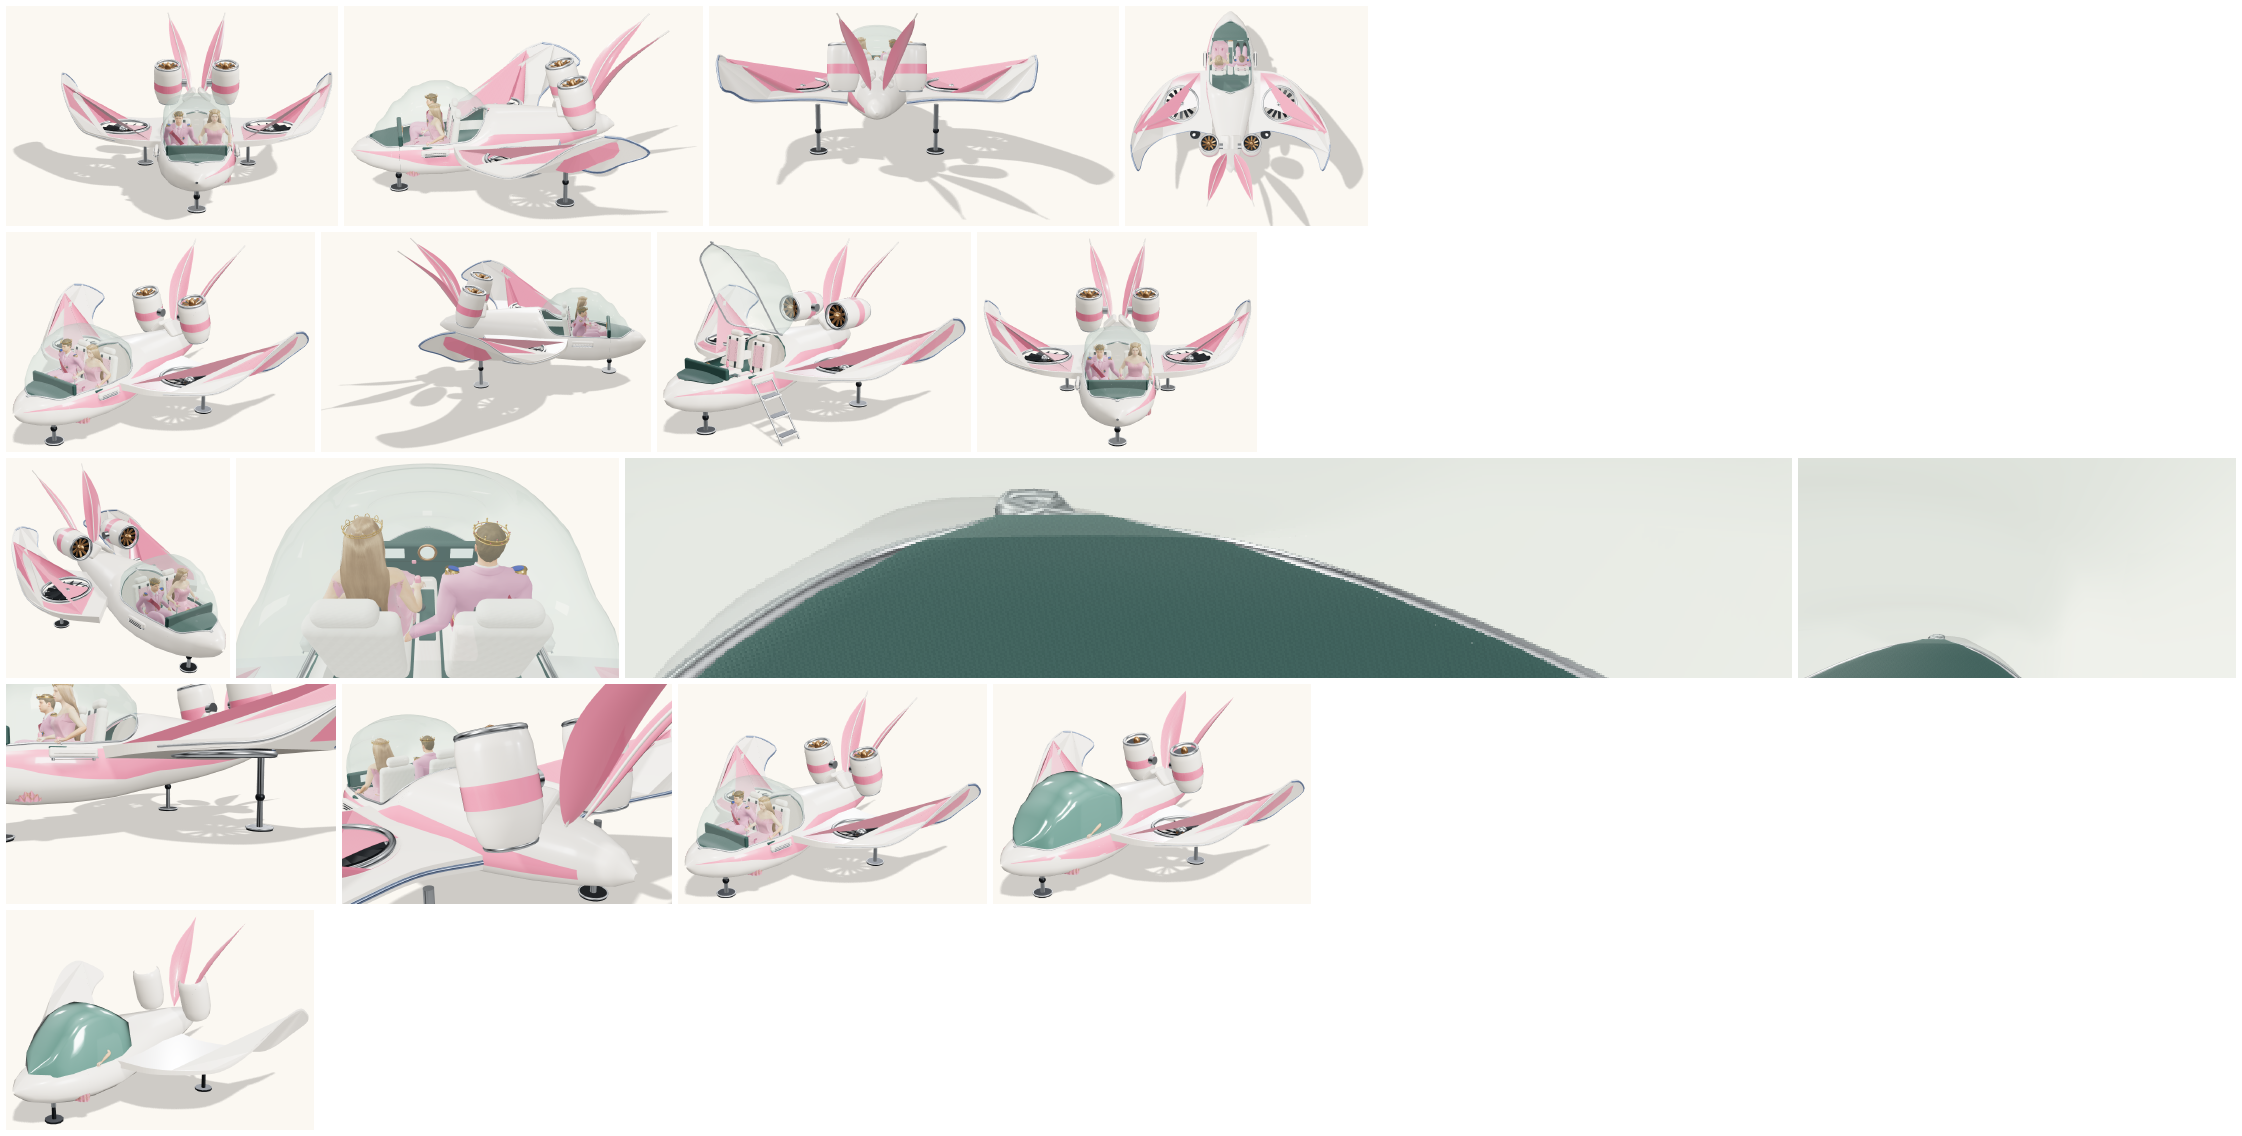
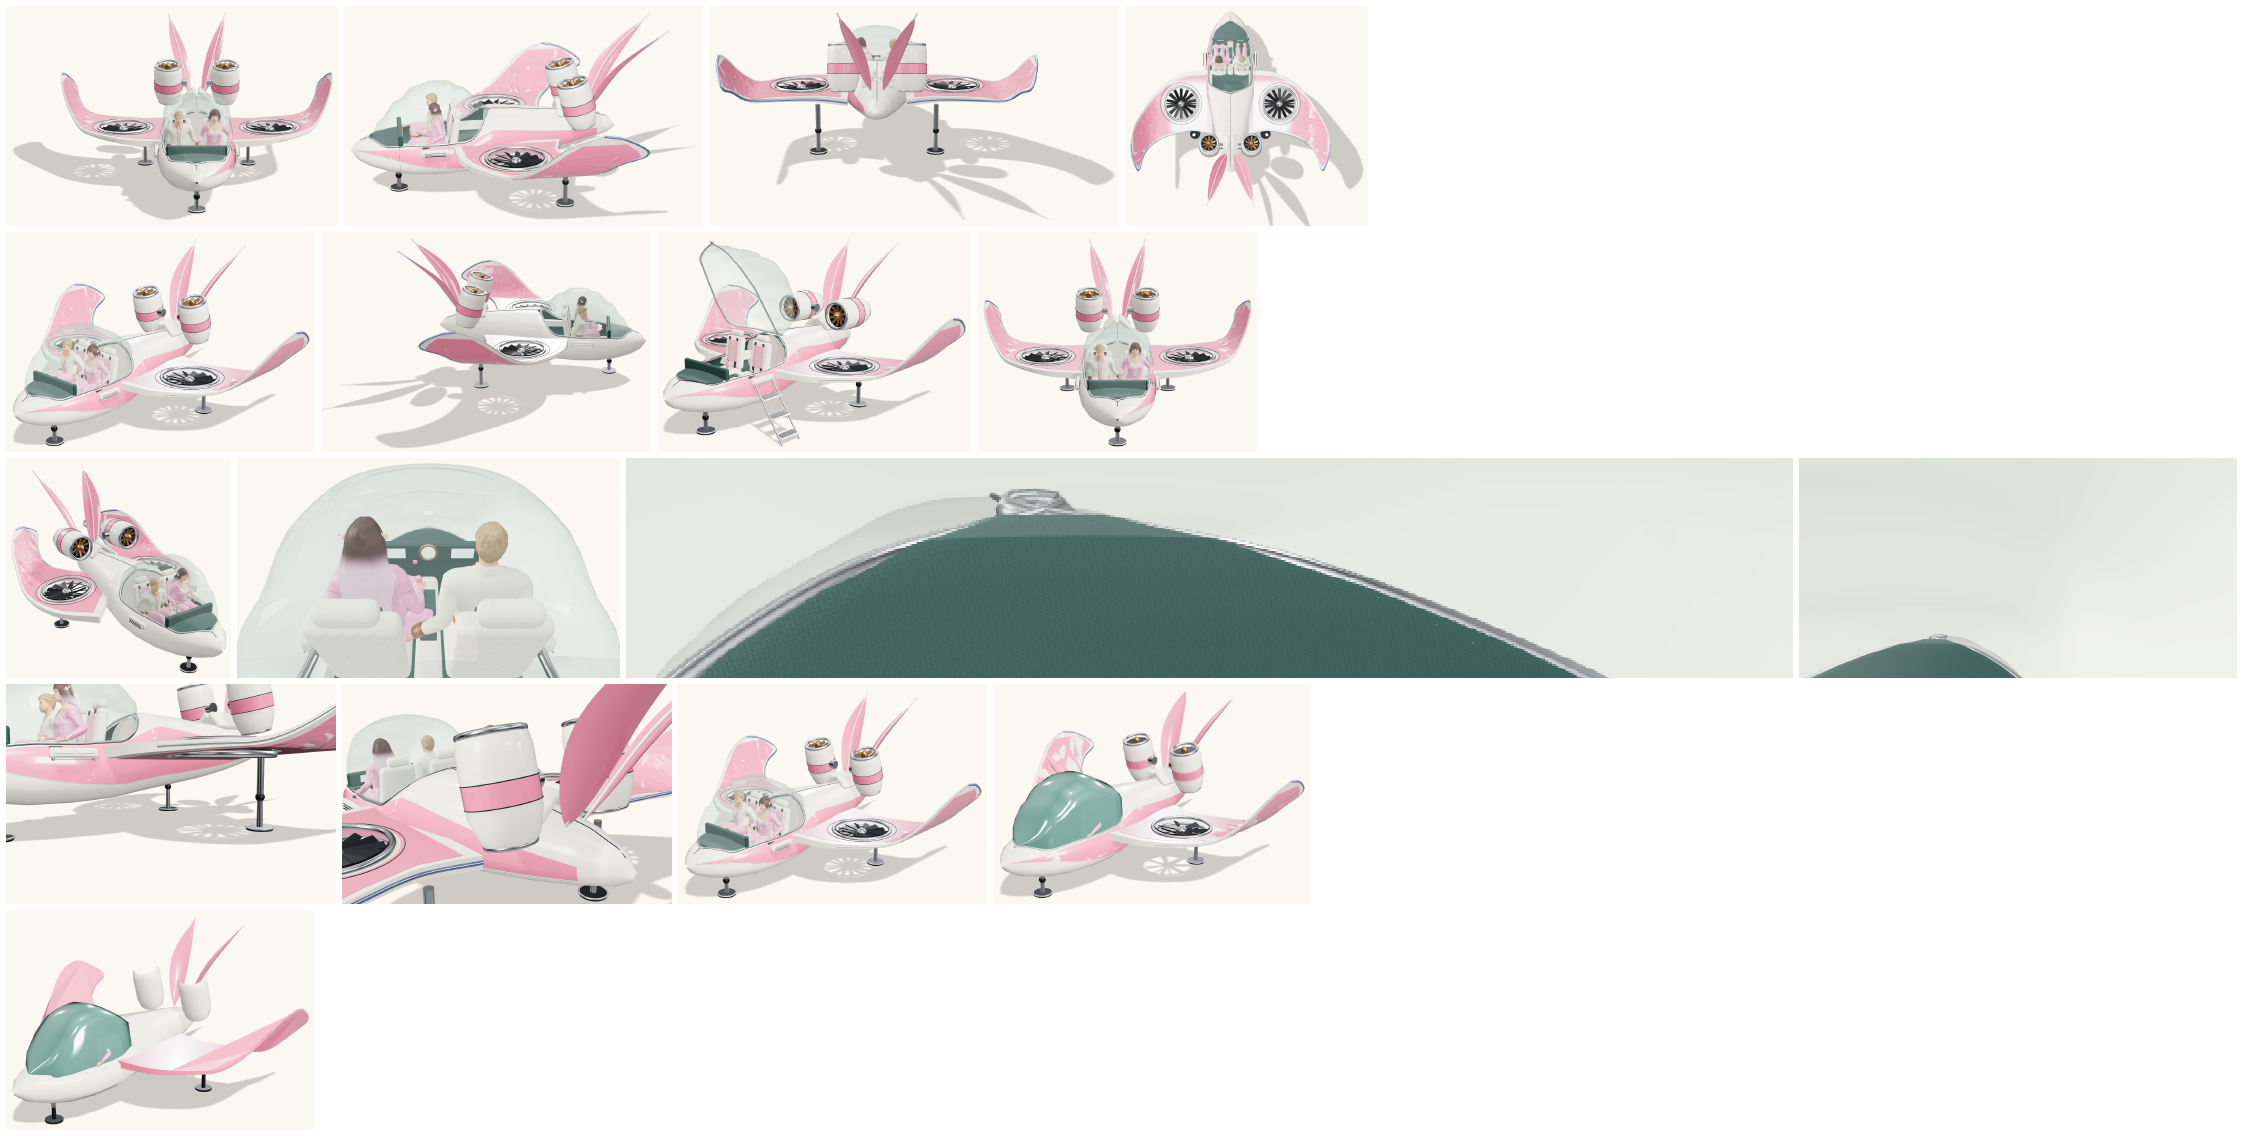
nov03no01

diff --git a/preview/src/ribbonwing.js b/preview/src/ribbonwing.js
@@ -19,6 +19,13 @@ import { createRibbonwingTrails } from './ribbonwing-trails.js';
 
 const TAU = Math.PI * 2;
 
+// D3 detail pass. Shut lines sit 3 mm proud of the authored loft: enough to read
+// as a panel gap at cockpit distance, inside the 20 mm envelope so no silhouette
+// view moves. The canopy seam stands 45 mrad outboard of the glass opening.
+const SEAM = Object.freeze({ radius: .004, lift: .003, canopyOffset: .045 });
+const inflated = (section, lift = SEAM.lift) => ({ ...section, halfWidth: section.halfWidth + lift, bottom: section.bottom - lift, top: section.top + lift });
+const bodyPoint = (x, angle, lift) => { const [y, z] = sectionPoint(inflated(bodyAt(x), lift), angle);return [x, y, z]; };
+
 // A quilted upholstery normal map, generated (no image asset): diamond tufts
 // on a 64 px tile. Linear data, so no colour space.
 function quiltNormalMap() {
@@ -39,10 +46,10 @@ export function createRibbonwing({ rubberName = 'Road tyre rubber' } = {}) {
   const physical = (name, color, options = {}) => { const m = own(new THREE.MeshPhysicalMaterial({ color, roughness: .4, ...options }));m.name = name;return m; };
   const quilt = own(quiltNormalMap());
   const M = {
-    lacquer: physical('Ribbonwing pink lacquer', P.lacquer, { roughness: .3, clearcoat: 1, clearcoatRoughness: .06 }),
-    ivory: physical('Ribbonwing ivory composite', P.ivory, { roughness: .36, clearcoat: .55, clearcoatRoughness: .16 }),
-    chrome: physical('Ribbonwing chrome', P.chrome, { metalness: 1, roughness: .13 }),
-    edge: physical('Ribbonwing blue chrome edge', P.edgeBlue, { metalness: 1, roughness: .2 }),
+    lacquer: physical('Ribbonwing pink lacquer', P.lacquer, { roughness: .3, clearcoat: 1, clearcoatRoughness: .06, envMapIntensity: 1.35 }),
+    ivory: physical('Ribbonwing ivory composite', P.ivory, { roughness: .36, clearcoat: .55, clearcoatRoughness: .16, envMapIntensity: 1.1 }),
+    chrome: physical('Ribbonwing chrome', P.chrome, { metalness: 1, roughness: .13, envMapIntensity: 1.5 }),
+    edge: physical('Ribbonwing blue chrome edge', P.edgeBlue, { metalness: 1, roughness: .2, envMapIntensity: 1.4 }),
     glass: physical('Ribbonwing mint canopy glass', P.mint, { transparent: true, opacity: .3, roughness: .05, metalness: .1, depthWrite: false }),
     glassFar: physical('Ribbonwing tinted canopy (distance)', '#6E9C92', { roughness: .12, metalness: .35, clearcoat: 1 }),
     seat: physical('Ribbonwing ivory upholstery', P.upholsteryIvory, { roughness: .8, sheen: .4, sheenColor: '#fbf4ea', normalMap: quilt, normalScale: new THREE.Vector2(.35, .35) }),
@@ -51,6 +58,7 @@ export function createRibbonwing({ rubberName = 'Road tyre rubber' } = {}) {
     cockpitIvory: physical('Ribbonwing ivory bulkhead', P.upholsteryIvory, { roughness: .8, side: THREE.DoubleSide }),
     cockpit: physical('Ribbonwing cockpit teal', P.cockpit, { roughness: .62, side: THREE.DoubleSide }),
     mechanical: physical('Ribbonwing dark mechanical', P.mechanical, { metalness: .6, roughness: .45 }),
+    seam: physical('Ribbonwing panel seam', P.mechanical, { metalness: .1, roughness: .72 }),
     bronze: physical('Ribbonwing bronze', P.bronze, { metalness: .9, roughness: .3 }),
     rubber: physical(rubberName, '#151719', { roughness: .88 }),
     gauge: physical('Ribbonwing instrument glow', '#d8f3ea', { emissive: '#bfeee0', emissiveIntensity: .35, roughness: .3 }),
@@ -82,10 +90,21 @@ export function createRibbonwing({ rubberName = 'Road tyre rubber' } = {}) {
     const x = xFrom(u), a = open ? openingHalfAngle(x) : 0, angle = Math.PI / 2 + a + (TAU - 2 * a) * v, [y, z] = sectionPoint(bodyAt(x), angle);return [x, y, z];
   }, M.ivory, parent);
   // Pink lacquer flank swoosh (both sides), 4 mm proud of the ivory.
-  const swoosh = (parent, nu, nv, side) => surface(nu, nv, (u, v) => {
-    const x = cosine(-2.86, 1.62, u), s = (x + 2.86) / 4.48, centre = .34 - .62 * s, half = .02 + .5 * Math.sin(Math.min(1, s * 1.7) * Math.PI / 2) * (1 - .45 * Math.max(0, s - .6) / .4);
-    const angle = centre + half * (v * 2 - 1), section = bodyAt(x), [y, z] = sectionPoint({ ...section, halfWidth: section.halfWidth + .004, bottom: section.bottom - .004, top: section.top + .004 }, side > 0 ? angle : Math.PI - angle);return [x, y, z];
-  }, M.lacquer, parent);
+  const swooshSpan = x => {
+    const s = (x + 2.86) / 4.48, centre = .34 - .62 * s;
+    return { centre, half: .02 + .5 * Math.sin(Math.min(1, s * 1.7) * Math.PI / 2) * (1 - .45 * Math.max(0, s - .6) / .4) };
+  };
+  const swoosh = (parent, nu, nv, side, detail) => {
+    surface(nu, nv, (u, v) => {
+      const x = cosine(-2.86, 1.62, u), { centre, half } = swooshSpan(x), angle = centre + half * (v * 2 - 1), section = bodyAt(x), [y, z] = sectionPoint({ ...section, halfWidth: section.halfWidth + .004, bottom: section.bottom - .004, top: section.top + .004 }, side > 0 ? angle : Math.PI - angle);return [x, y, z];
+    }, M.lacquer, parent);
+    if (detail === 'near') {
+      // Bright rocker line along the panel's lower edge, as on the reference car.
+      const trim = [];
+      for (let i = 0; i <= 24; i++) { const x = cosine(-2.86, 1.62, i / 24), { centre, half } = swooshSpan(x), [y, z] = sectionPoint(inflated(bodyAt(x), .005), side > 0 ? centre - half : Math.PI - centre + half);trim.push([x, y, z]); }
+      tube(trim, .004, M.chrome, parent, 5);
+    }
+  };
   const canopySample = (u, v) => {
     const x = COCKPIT_OPENING.from + (COCKPIT_OPENING.to - COCKPIT_OPENING.from) * u, edge = openingEdge(x) ?? [sectionPoint(bodyAt(x), Math.PI / 2)[0], 0];
     const apex = Math.max(edge[0], profileAt(CANOPY_PROFILE, u)), t = v * Math.PI, sin = Math.sin(t);
@@ -193,6 +212,16 @@ export function createRibbonwing({ rubberName = 'Road tyre rubber' } = {}) {
     }
     const hub = mesh(new THREE.SphereGeometry(.1, 20, 12, 0, TAU, 0, Math.PI / 2), M.chrome, rotor);hub.scale.y = .8;
     cylinder(.1, .1, .05, 20, M.bronze, rotor, [0, -.025, 0]);
+    if (detail === 'near') {
+      // Shut line around the fan's pink panel, following the wing's chord taper.
+      const r = FANS.shroud + .07, ring = [];
+      for (let i = 0; i < 32; i++) {
+        const a = i / 32 * TAU, wz = side * (fz + r * Math.sin(a)), span = Math.abs(wz);
+        const taper = 1 - .75 * Math.max(0, Math.min(1, (span - WING.planformRoot) / (2.92 - WING.planformRoot)));
+        ring.push([fx + r * Math.cos(a) - px, wingHeightAt(span) - py + WING.thickness / 2 * taper + .012, wz - side * pz]);
+      }
+      tube(ring, .0035, M.seam, pivot, 5, true);
+    }
   };
 
   const buildThruster = (parent, side, detail) => {
@@ -210,6 +239,7 @@ export function createRibbonwing({ rubberName = 'Road tyre rubber' } = {}) {
     lathe([[.24, -L / 2], [.28, -L / 2 + .04], [R, -L / 2 + .14], [R, -.08], [R * .98, .2], [R * .82, L / 2 - .06], [R * .7, L / 2]], M.ivory);
     if (detail === 'far') return;
     lathe([[R + .003, -.06], [R + .003, .12]], M.petal);
+    if (detail === 'near') for (const at of [-.06, .12]) torus(R + .004, .004, M.seam, gimbal, [offset + at, 0, 0], [0, Math.PI / 2, 0], 32);
     torus(.255, .03, M.chrome, gimbal, [offset - L / 2 + .015, 0, 0], [0, Math.PI / 2, 0], segments);
     torus(R * .7 - .01, .022, M.chrome, gimbal, [offset + L / 2, 0, 0], [0, Math.PI / 2, 0], segments);
     // Intake fan face and the nozzle's dark throat with its bounded glow.
@@ -321,11 +351,24 @@ export function createRibbonwing({ rubberName = 'Road tyre rubber' } = {}) {
     buildSeat(parent, SEATS.pilot, 1);buildSeat(parent, SEATS.passenger, -1);
   };
 
+  // Near-only shut lines on the authored body: two centreline seams and the
+  // gasket line around the canopy opening. They sit on the unmodified loft, so
+  // the silhouette floors cannot move.
+  const buildDetail = level => {
+    const spine = (from, to, steps) => tube(Array.from({ length: steps + 1 }, (_, i) => bodyPoint(from + (to - from) * i / steps, Math.PI / 2)), SEAM.radius * .9, M.seam, level, 5);
+    spine(-2.78, -2.63, 8);
+    spine(-.40, 1.90, 28);
+    const { from, to } = COCKPIT_OPENING, surround = [];
+    for (let i = 0; i <= 24; i++) { const x = from + (to - from) * i / 24; surround.push(bodyPoint(x, Math.PI / 2 + openingHalfAngle(x) + SEAM.canopyOffset)); }
+    for (let i = 24; i >= 0; i--) { const x = from + (to - from) * i / 24; surround.push(bodyPoint(x, Math.PI / 2 - openingHalfAngle(x) - SEAM.canopyOffset)); }
+    tube(surround, SEAM.radius * .9, M.seam, level, 5, true);
+  };
+
   const buildLevel = detail => {
     const level = new THREE.Group();level.name = `Ribbonwing ${detail}`;batchGroups.push(level);
     const nu = { near: 72, medium: 32, far: 14 }[detail], nv = { near: 48, medium: 22, far: 10 }[detail];
     body(level, nu, nv, detail === 'near');
-    if (detail !== 'far') for (const side of [1, -1]) swoosh(level, Math.round(nu * .6), 6, side);
+    if (detail !== 'far') for (const side of [1, -1]) swoosh(level, Math.round(nu * .6), 6, side, detail);
     // Nose emblem: a small pink inverted triangle.
     if (detail !== 'far') { const tri = new THREE.Shape([new THREE.Vector2(-.05, .04), new THREE.Vector2(.05, .04), new THREE.Vector2(0, -.045)]), g = new THREE.ShapeGeometry(tri);g.rotateY(-Math.PI / 2);const m = mesh(g, M.lacquer, level);m.position.set(-2.835, .86, 0);m.rotation.z = -.5; }
     // Canopy (rear-hinged) with its chrome rim; distance levels get an opaque tint.
@@ -345,7 +388,7 @@ export function createRibbonwing({ rubberName = 'Road tyre rubber' } = {}) {
     }
     for (const side of [1, -1]) { buildWing(level, side, detail);buildThruster(level, side, detail);buildPetal(level, side, detail); }
     for (let i = 0; i < 3; i++) buildFoot(level, i, detail);
-    if (detail === 'near') { buildCockpit(level);for (const side of [1, -1]) buildSteps(level, side); }
+    if (detail === 'near') { buildCockpit(level);buildDetail(level);for (const side of [1, -1]) buildSteps(level, side); }
     // Gear bay outlines under the body and wings (dark recesses).
     if (detail === 'near') for (const [x, , z] of FEET.hinges) { const bay = mesh(new THREE.CircleGeometry(.16, 20), M.mechanical, level);bay.scale.set(1.8, 1, 1);bay.rotation.x = Math.PI / 2;bay.position.set(x, (z ? wingHeightAt(z) - WING.thickness / 2 : bodyAt(x).bottom) - .004, z); }
     return level;

diff --git a/preview/tests/ribbonwing.test.js b/preview/tests/ribbonwing.test.js
@@ -120,6 +120,21 @@ test('the Ribbonwing model exposes named attachments, three LOD levels within bu
   assert.ok(once > 0 && disposals === once && vehicle.ribbonwing.disposed && !vehicle.object.parent);
 });
 
+test('the near detail pass adds shut lines inside the authored envelope and the level budget', () => {
+  const craft = createRibbonwing();
+  try {
+    craft.object.updateMatrixWorld(true);
+    const box = level => new THREE.Box3().setFromObject(craft.levels[level]), near = box('near'), medium = box('medium');
+    for (const axis of ['x', 'y', 'z']) {
+      assert.ok(Math.abs(near.min[axis] - medium.min[axis]) < .02, `${axis} min ${near.min[axis]} vs ${medium.min[axis]}`);
+      assert.ok(Math.abs(near.max[axis] - medium.max[axis]) < .02, `${axis} max ${near.max[axis]} vs ${medium.max[axis]}`);
+    }
+    const { perLevel } = craft.stats();
+    assert.ok(perLevel.near.draws <= 65, `${perLevel.near.draws} draws`);
+    assert.ok(perLevel.near.triangles < 130000, `${perLevel.near.triangles} triangles`);
+  } finally { craft.dispose(); }
+});
+
 test('a parked Ribbonwing blocks walkers under its wings but not ahead of them, where its steps and exits are', async () => {
   const { carriageContains } = await import('../src/carriage-parking.js');
   const placement = { vehicle: 'hover', position: [0, 0, 0], yaw: 0, scale: 1 };

diff --git a/preview/src/ribbonwing-design.js b/preview/src/ribbonwing-design.js
@@ -14,7 +14,7 @@
 /** @typedef {[number,number]} Point2 */
 /** @typedef {[number,number,number]} Point3 */
 
-export const RIBBONWING_VERSION = 'd2-paint-1';
+export const RIBBONWING_VERSION = 'd3-detail-1';
 
 // Exact palette tokens (checked separately from lit pixels). Lacquer is the
 // TypeSafe pink the issue fixes; the others were sampled from the exterior and

diff --git a/docs/design/ribbonwing/brief.md b/docs/design/ribbonwing/brief.md
@@ -1,7 +1,7 @@
 # Ribbonwing design brief (#777)
 
-Status: **D2 paint pass** (`RIBBONWING_VERSION = 'd2-paint-1'`) on the D1 metric
-blockout. This is a procedural, game-ready model matched to the two final references. It is
+Status: **D3 detail pass** (`RIBBONWING_VERSION = 'd3-detail-1'`) on the D2 paint
+pass. This is a procedural, game-ready model matched to the two final references. It is
 not finished detail art, not a pixel match and not Val's visual acceptance.
 
 ## Sources
@@ -84,6 +84,40 @@ Frame: metres, front −X, up +Y, left +Z, origin on the ground under the planfo
     draw a thicker wing section that rises steadily from the root, which is
     detail-art geometry. The D2 values are the floor from here (D2 − 0.03). The
     near level grows from 71k to 92k triangles, within the 130k budget.
+
+## D3: detail pass
+
+13. **Shut lines, rocker trim and specular tuning — near level only.** An
+    external review proposed a long list of changes. Five were already in the
+    model (clearcoat, sheen, the scene's PMREM environment, chrome
+    `metalness: 1`, the pink nose badge) and several would have broken the
+    measured contract, so only the detail pass was kept:
+
+    - two centreline shut lines (nose deck behind the badge, rear deck between
+      the thrusters), the canopy gasket line 45 mrad outboard of the glass
+      opening, fan-panel rings, and two nacelle rings at the pink band edges;
+    - a 4 mm chrome rocker tube along the lower edge of the flank swoosh;
+    - `envMapIntensity` 1.35 on lacquer, 1.5 on chrome, 1.4 on the blue edge,
+      1.1 on ivory. These multiply the existing atmosphere-driven
+      `environmentIntensity`, so the finish moves without a new light.
+
+    Every seam is a thin tube on the unmodified loft, offset at most 12 mm from
+    the authored surface, so no silhouette changes and the D2 IoU floors carry
+    over unchanged. The near level moves from 57 draws / 92,055 triangles to
+    62 / 106,223, inside the 65-draw and 130k-triangle budgets; medium and far
+    are untouched. Evidence: `d3-detail.json`, `evidence/d3-comparison.png`,
+    `evidence/d3-canonical.png`.
+
+    Rejected, with reasons: a Mark II rewrite (breaks the #777 contract and the
+    pinned export); a studio environment map (the scene already supplies a
+    PMREM HDR environment); `ior: 1.5` on lacquer (moves every view's
+    reflection, no reference support); duller chrome (the references draw it
+    bright); a quilt normal map at 128 px with a roughness map (the export test
+    pins the 64×64 quilt, and the texture is shared with the seats);
+    headlights and taillights (neither reference shows any lamp); blue
+    underglow and a turntable mode (outside the brief's palette and camera
+    contract). The transcript's repeated claim that `ribbonwing.js` does not
+    exist was wrong, so its file-level advice was not used as evidence.
 
 ## D1: camera calibration and tolerances
 
